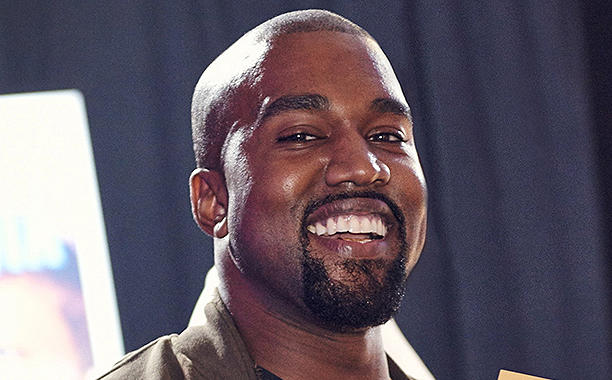
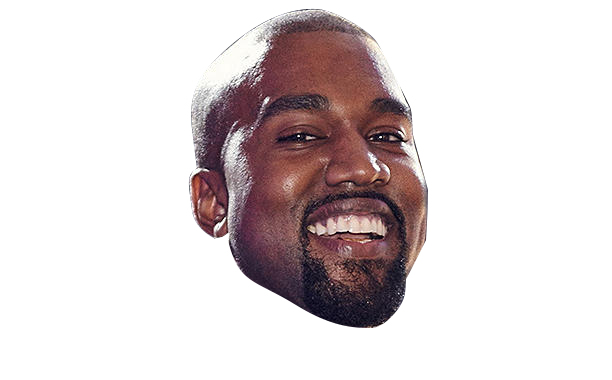
#RANDOM
*edited random jpg images

diff --git a/css/styles.css b/css/styles.css
@@ -1,3 +1,3 @@
[2 lines of base64/hex data omitted]
 
 /*# sourceMappingURL=styles.css.map */

diff --git a/scss/_google-homepage.scss b/scss/_google-homepage.scss
@@ -38,7 +38,9 @@
 
 
 #random {
-    text-align: center;
+    display: block;
+    margin: 0 auto;
+    border-radius: 100%;
 }
 
 
